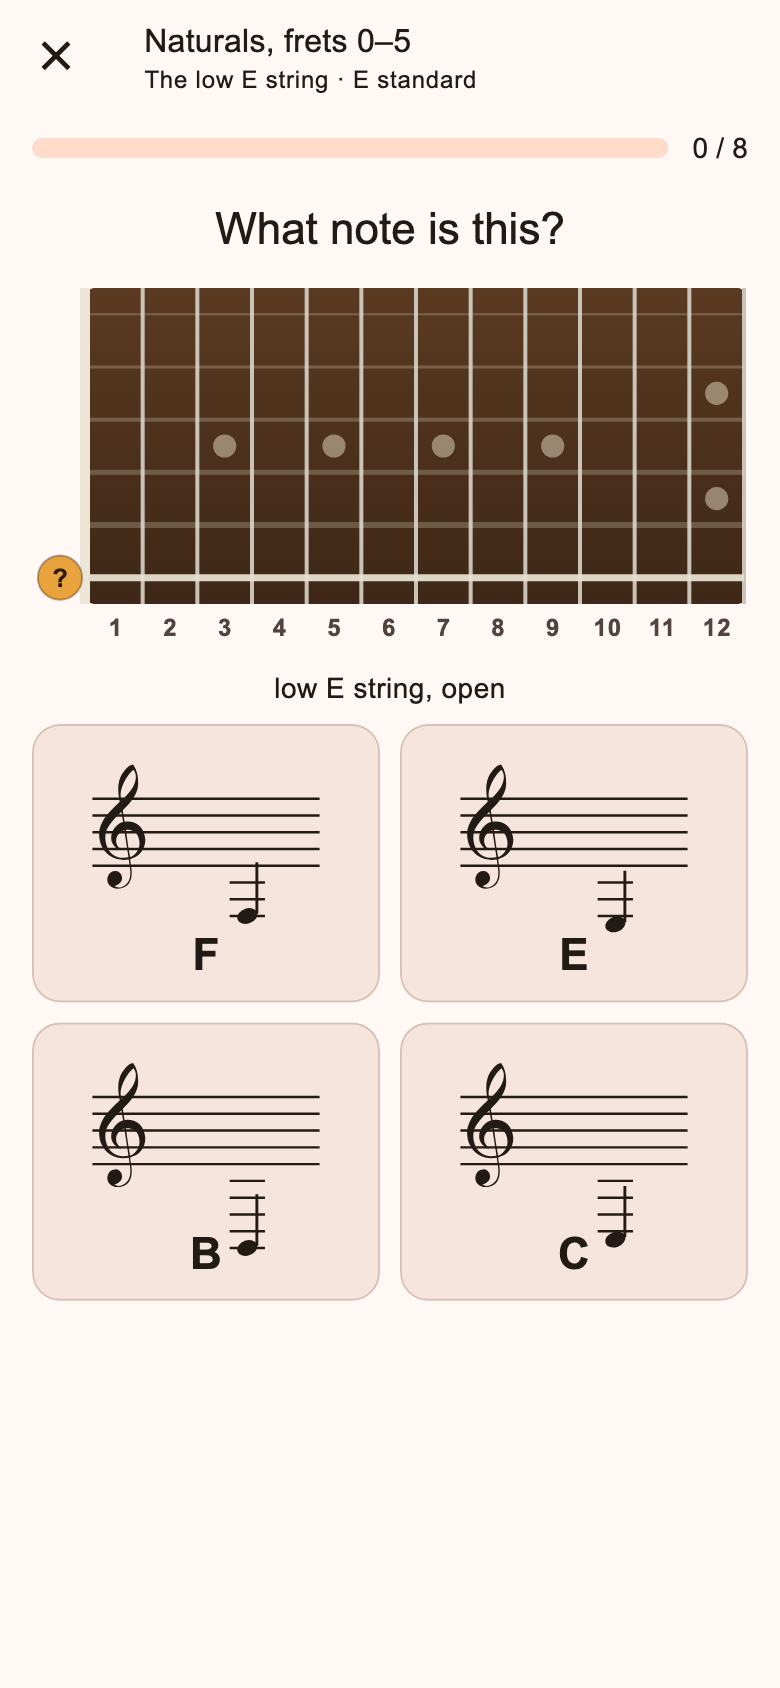
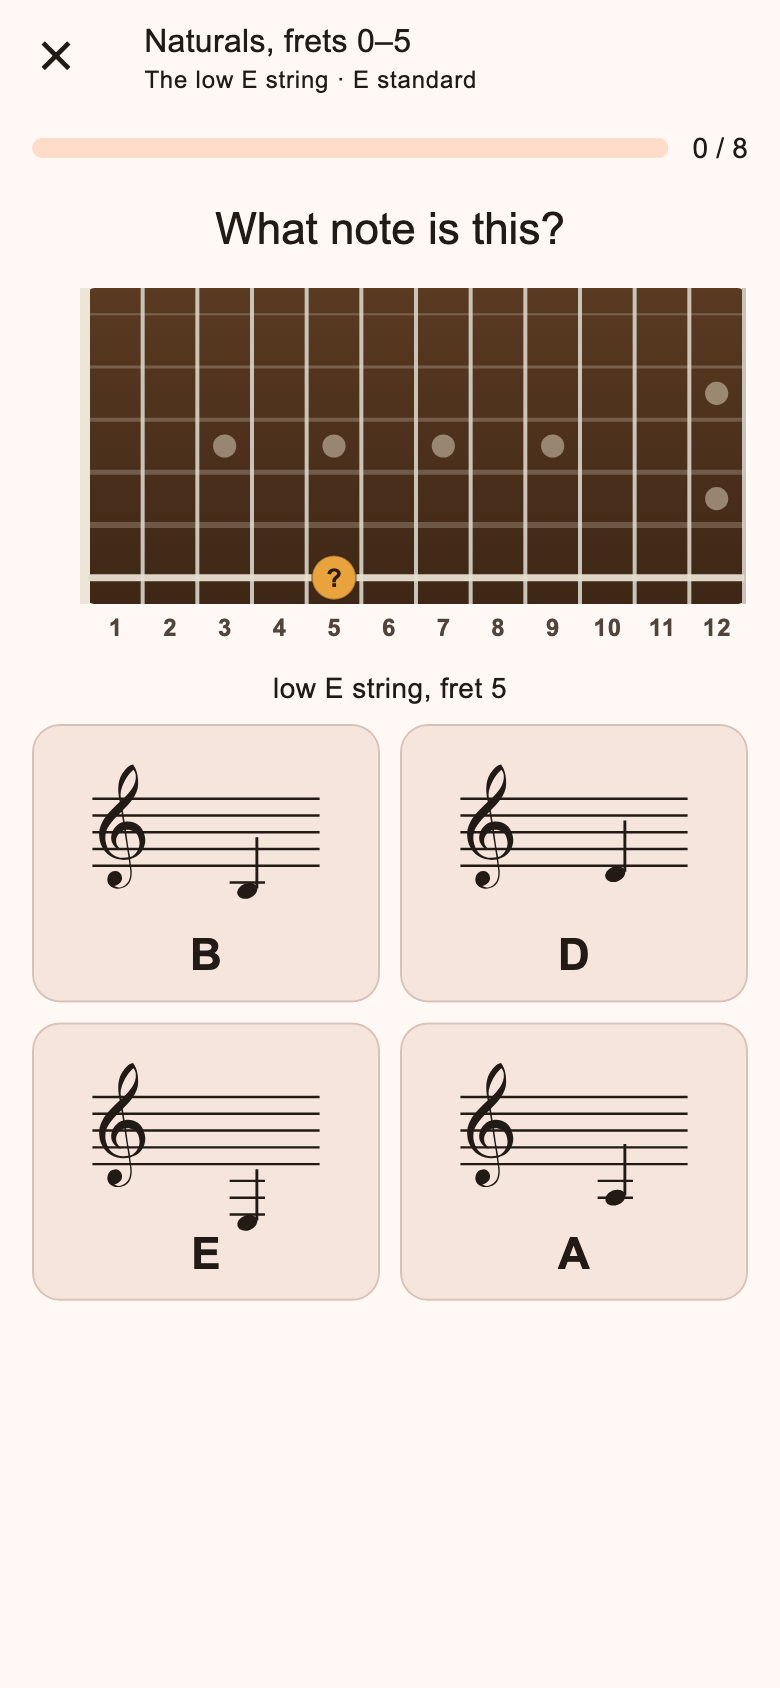
Wiki links, public LessonResultView, wiki screenshots
Claude-Session: https://claude.ai/code/session_01HVi1ipDRckv8DYLY25SsTG

diff --git a/apps/fretboard_trainer/test/screenshots/screenshots_test.dart b/apps/fretboard_trainer/test/screenshots/screenshots_test.dart
@@ -2,6 +2,7 @@
 // docs/screenshots. Run with `just screenshots` (sets SCREENSHOTS=1 and
 // --update-goldens); skipped otherwise because the output depends on the
 // fonts installed on the machine.
+import 'dart:convert';
 import 'dart:io';
 
 import 'package:flutter/material.dart';
@@ -12,6 +13,7 @@ import 'package:fretboard_theory/fretboard_theory.dart';
 import 'package:fretboard_trainer/app/theme.dart';
 import 'package:fretboard_trainer/features/learn/lesson_screen.dart';
 import 'package:fretboard_trainer/main.dart';
+import 'package:fretboard_trainer/widgets/drill_runner.dart';
 import 'package:fretboard_trainer/widgets/question_view.dart';
 import 'package:shared_preferences/shared_preferences.dart';
 
@@ -150,5 +152,113 @@ void main() {
       ),
     );
     await shot(tester, 'teach-bass-fretboard');
+  }, skip: !enabled);
+
+  testWidgets('wiki: progress, bass, results', (tester) async {
+    await phone(tester);
+
+    // A learner two thirds of the way through the guitar path.
+    final c = Curriculum(InstrumentKind.guitar, 6);
+    final done = c.lessons
+        .takeWhile((l) => !l.unitId.endsWith('-open'))
+        .toList();
+    SharedPreferences.setMockInitialValues({
+      'progress': jsonEncode({
+        for (final l in done)
+          l.id: {'attempts': 1, 'bestScore': 0.9, 'completed': true},
+      }),
+    });
+    await tester.pumpWidget(const ProviderScope(child: FretboardTrainerApp()));
+    await tester.pumpAndSettle();
+    await tester.scrollUntilVisible(
+      find.text('Open chords'),
+      300,
+      scrollable: find.byType(Scrollable).first,
+    );
+    await shot(tester, 'wiki-learn-progress');
+
+    // Lesson results, passed and not.
+    final lesson = c.lessonById('g6-string0-c')!;
+    final next = c.lessonById('g6-string0-test')!;
+    await tester.pumpWidget(
+      ProviderScope(
+        child: MaterialApp(
+          theme: buildTheme(Brightness.light),
+          home: Scaffold(
+            appBar: AppBar(title: Text(lesson.title)),
+            body: LessonResultView(
+              lesson: lesson,
+              result: const DrillResult(
+                correct: 9,
+                total: 10,
+                misses: ['The low E string at fret 6 is A♯.'],
+              ),
+              passed: true,
+              next: next,
+              onRetry: () {},
+              onReview: () {},
+            ),
+          ),
+        ),
+      ),
+    );
+    await shot(tester, 'wiki-lesson-passed');
+    await tester.pumpWidget(
+      ProviderScope(
+        child: MaterialApp(
+          theme: buildTheme(Brightness.light),
+          home: Scaffold(
+            appBar: AppBar(title: Text(lesson.title)),
+            body: LessonResultView(
+              lesson: lesson,
+              result: const DrillResult(
+                correct: 5,
+                total: 10,
+                misses: [
+                  'The low E string at fret 6 is A♯.',
+                  'The low E string at fret 8 is C.',
+                  'D♯ is the low E string at fret 11.',
+                ],
+              ),
+              passed: false,
+              next: null,
+              onRetry: () {},
+              onReview: () {},
+            ),
+          ),
+        ),
+      ),
+    );
+    await shot(tester, 'wiki-lesson-failed');
+
+    // Power chord teach card.
+    final power = c.lessonById('g6-power-a')!;
+    await tester.pumpWidget(
+      wrap(TeachCardView(card: power.teach()[2], instrument: power.instrument)),
+    );
+    await shot(tester, 'wiki-teach-power');
+  }, skip: !enabled);
+
+  testWidgets('wiki: bass in drop D', (tester) async {
+    await phone(tester);
+    SharedPreferences.setMockInitialValues({
+      'kind': 'bass',
+      'tuningId': 'dropdb4',
+      'drillModes': ['fretToNote', 'chordToName'],
+    });
+    await tester.pumpWidget(const ProviderScope(child: FretboardTrainerApp()));
+    await tester.pumpAndSettle();
+    await shot(tester, 'wiki-learn-bass');
+    await tester.tap(find.byIcon(Icons.settings_outlined));
+    await shot(tester, 'wiki-settings-bass-dropd');
+    await tester.tap(find.byIcon(Icons.bolt_outlined));
+    await tester.pumpAndSettle();
+    await tester.scrollUntilVisible(
+      find.text('Start'),
+      300,
+      scrollable: find.byType(Scrollable).first,
+    );
+    await tester.tap(find.text('Start'));
+    await shot(tester, 'wiki-drill-bass');
   }, skip: !enabled);
 }

diff --git a/apps/fretboard_trainer/lib/features/learn/lesson_screen.dart b/apps/fretboard_trainer/lib/features/learn/lesson_screen.dart
@@ -80,7 +80,7 @@ class _LessonScreenState extends ConsumerState<LessonScreen> {
             });
           },
         ),
-        _Phase.result => _ResultView(
+        _Phase.result => LessonResultView(
           lesson: lesson,
           result: _result!,
           passed: _passed,
@@ -289,8 +289,10 @@ class TeachCardView extends ConsumerWidget {
   }
 }
 
-class _ResultView extends StatelessWidget {
-  const _ResultView({
+/// The end-of-lesson screen: score, pass or fail, misses, and what to do next.
+class LessonResultView extends StatelessWidget {
+  const LessonResultView({
+    super.key,
     required this.lesson,
     required this.result,
     required this.passed,

diff --git a/README.md b/README.md
@@ -6,6 +6,10 @@ guitars and basses through quick drills. It starts with single-note
 recognition in standard tuning, then non-standard tunings (drop D, C standard,
 …), and goes on to chords: open, power and barre.
 
+**Help and how-tos:** the [Wiki](https://github.com/drlholloway/fretboardtrainer/wiki)
+covers installation, first steps, the learning path, drills, chords and
+tunings, settings and troubleshooting.
+
 See [PLAN.md](PLAN.md) for the design and status, and
 [CHANGELOG.md](CHANGELOG.md) for what changed in each version.
 

diff --git a/CONTRIBUTING.md b/CONTRIBUTING.md
@@ -16,6 +16,8 @@ By participating you agree to the [Code of Conduct](CODE_OF_CONDUCT.md).
   to turn it into a test.
 - **Suggest a feature.** Use the *Feature request* form. Check the "Later"
   section of `PLAN.md` first; it may already be planned.
+- **Improve the wiki.** It is a normal GitHub wiki; edits are welcome. American
+  spelling, please, to match the app.
 - **Add a chord shape** to `ChordLibrary` in
   `packages/fretboard_theory/lib/src/chords.dart`, with a test that pins its
   tab and name in standard tuning.

diff --git a/CLAUDE.md b/CLAUDE.md
@@ -22,6 +22,8 @@ directory.
   stores; no music logic.
 - `packaging/icon/make_icon.py` — draws the icon masters (Pillow).
 - `docs/screenshots/` — rendered screens, regenerated by `just screenshots`.
+  The wiki (`fretboardtrainer.wiki.git`, cloned separately) uses copies of
+  them under `images/`; update both when a screen changes.
 
 ## Commands
 
